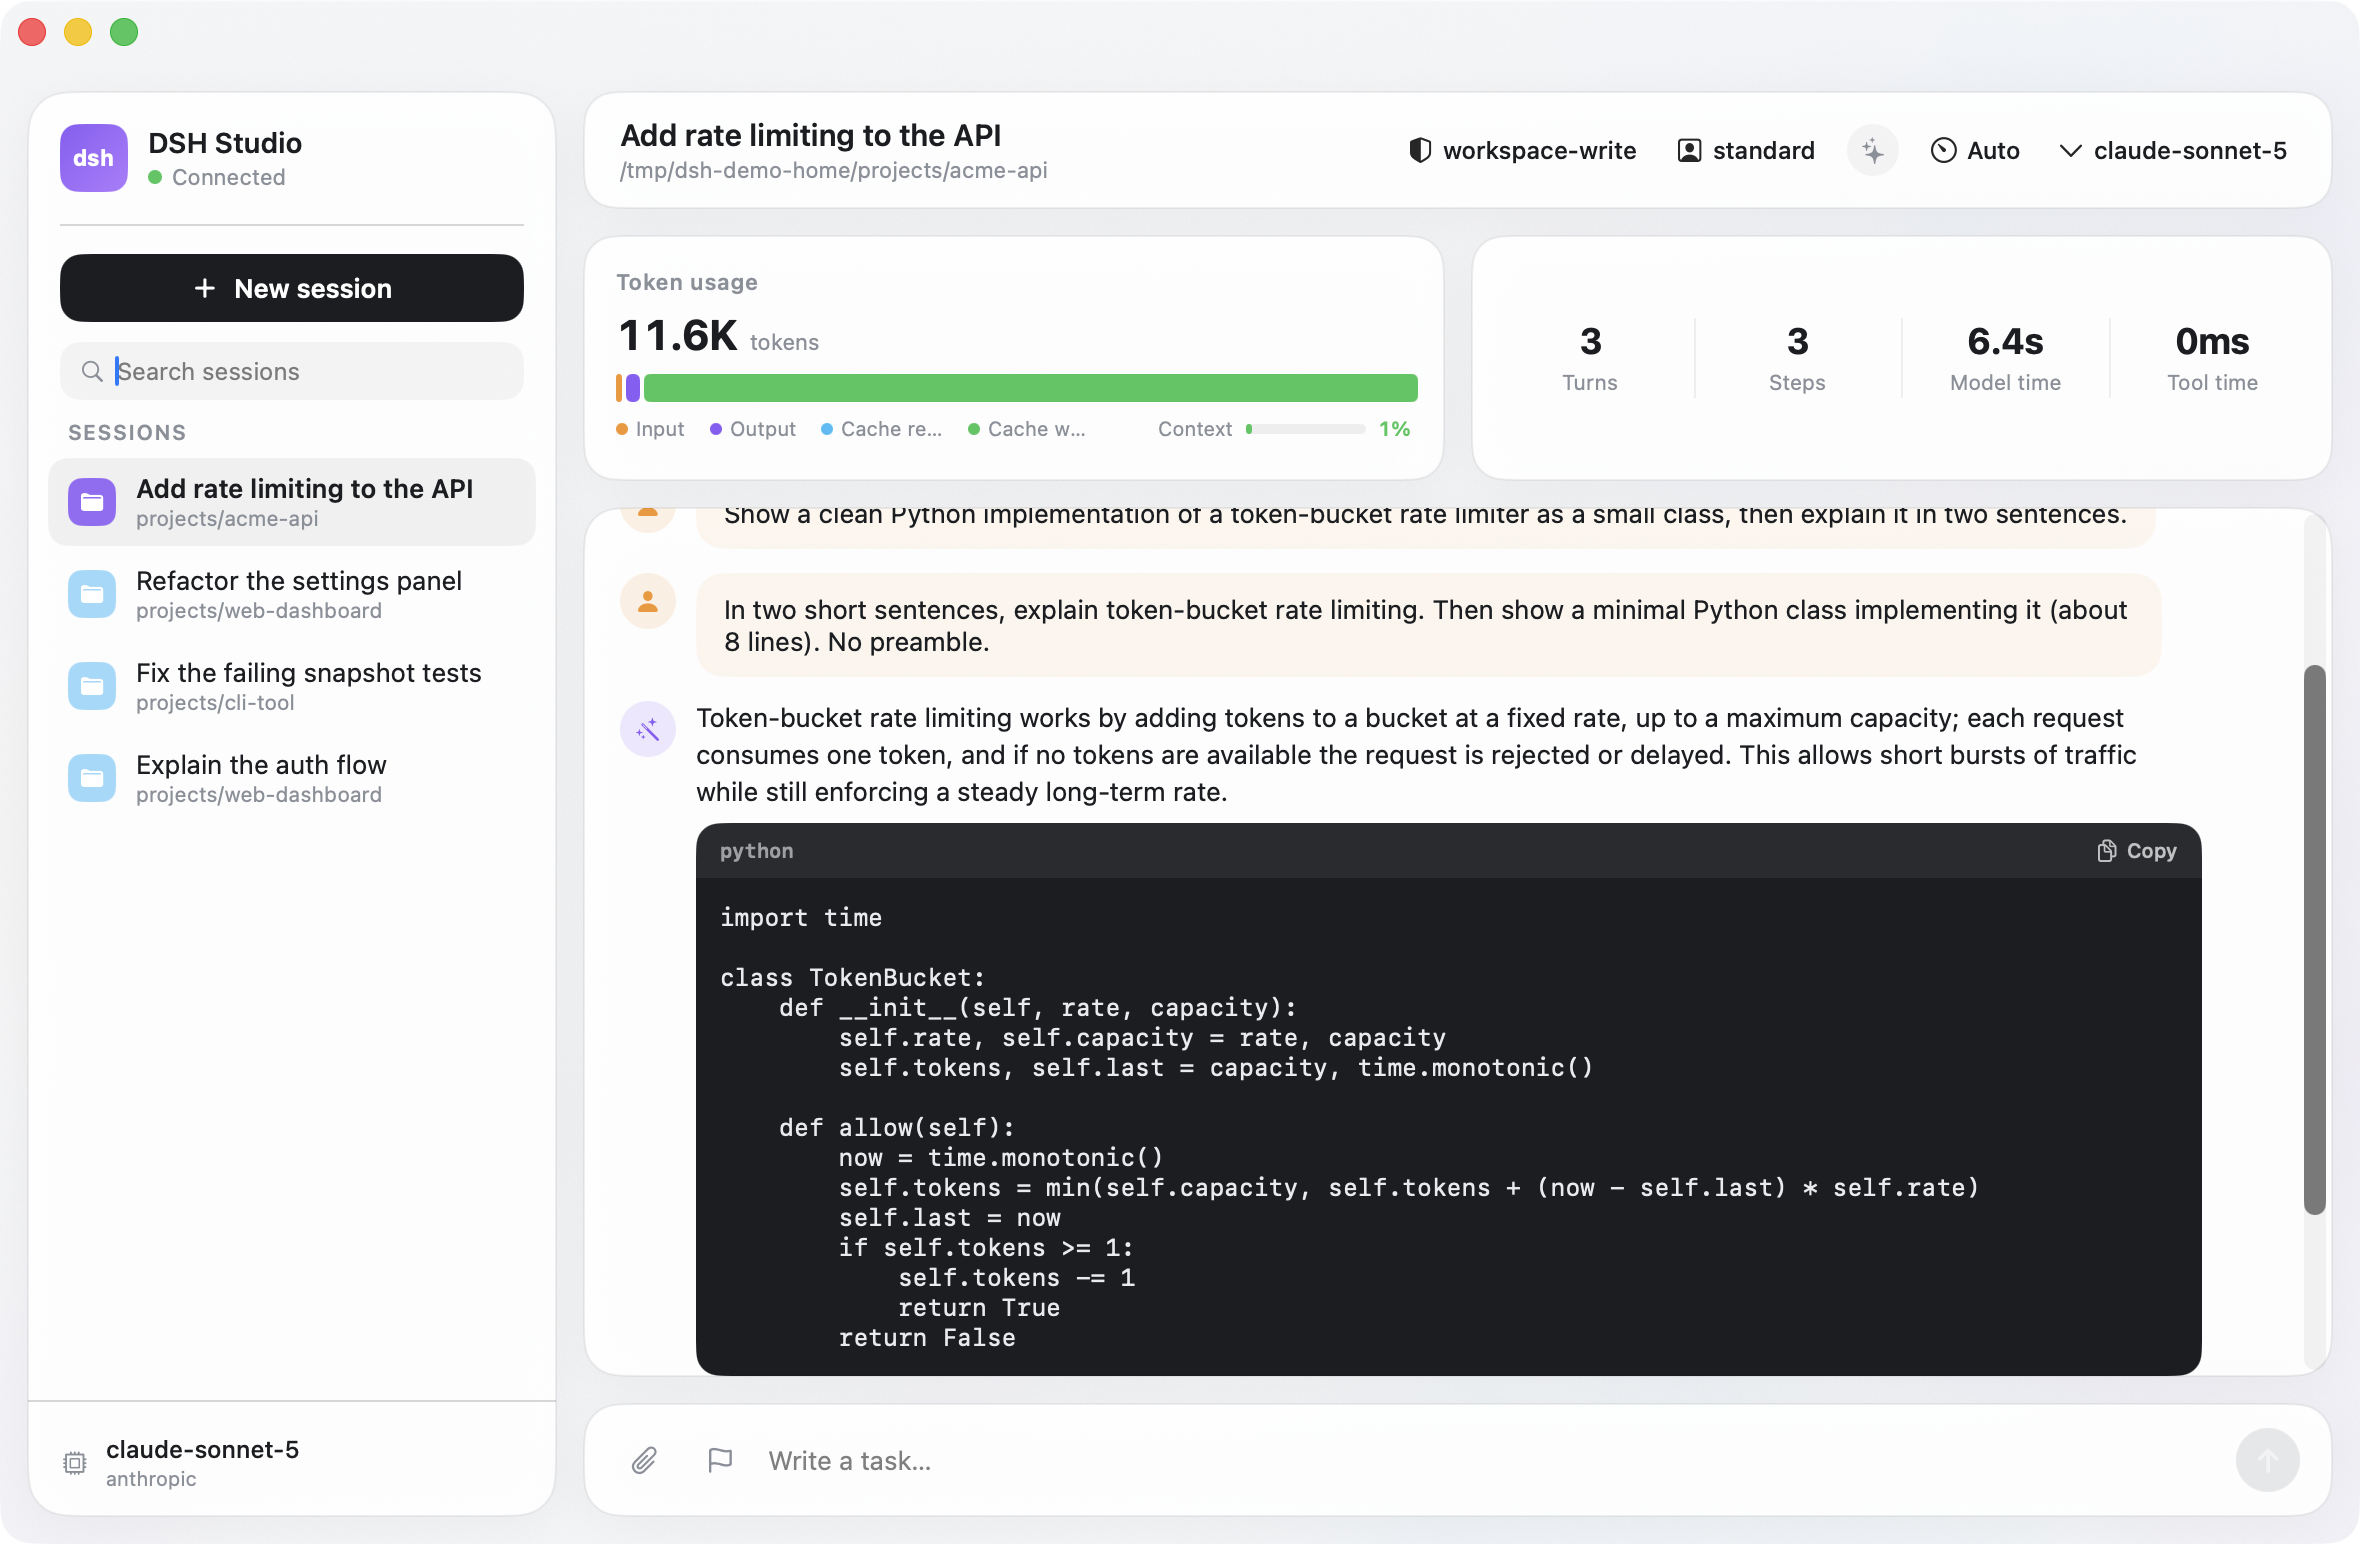
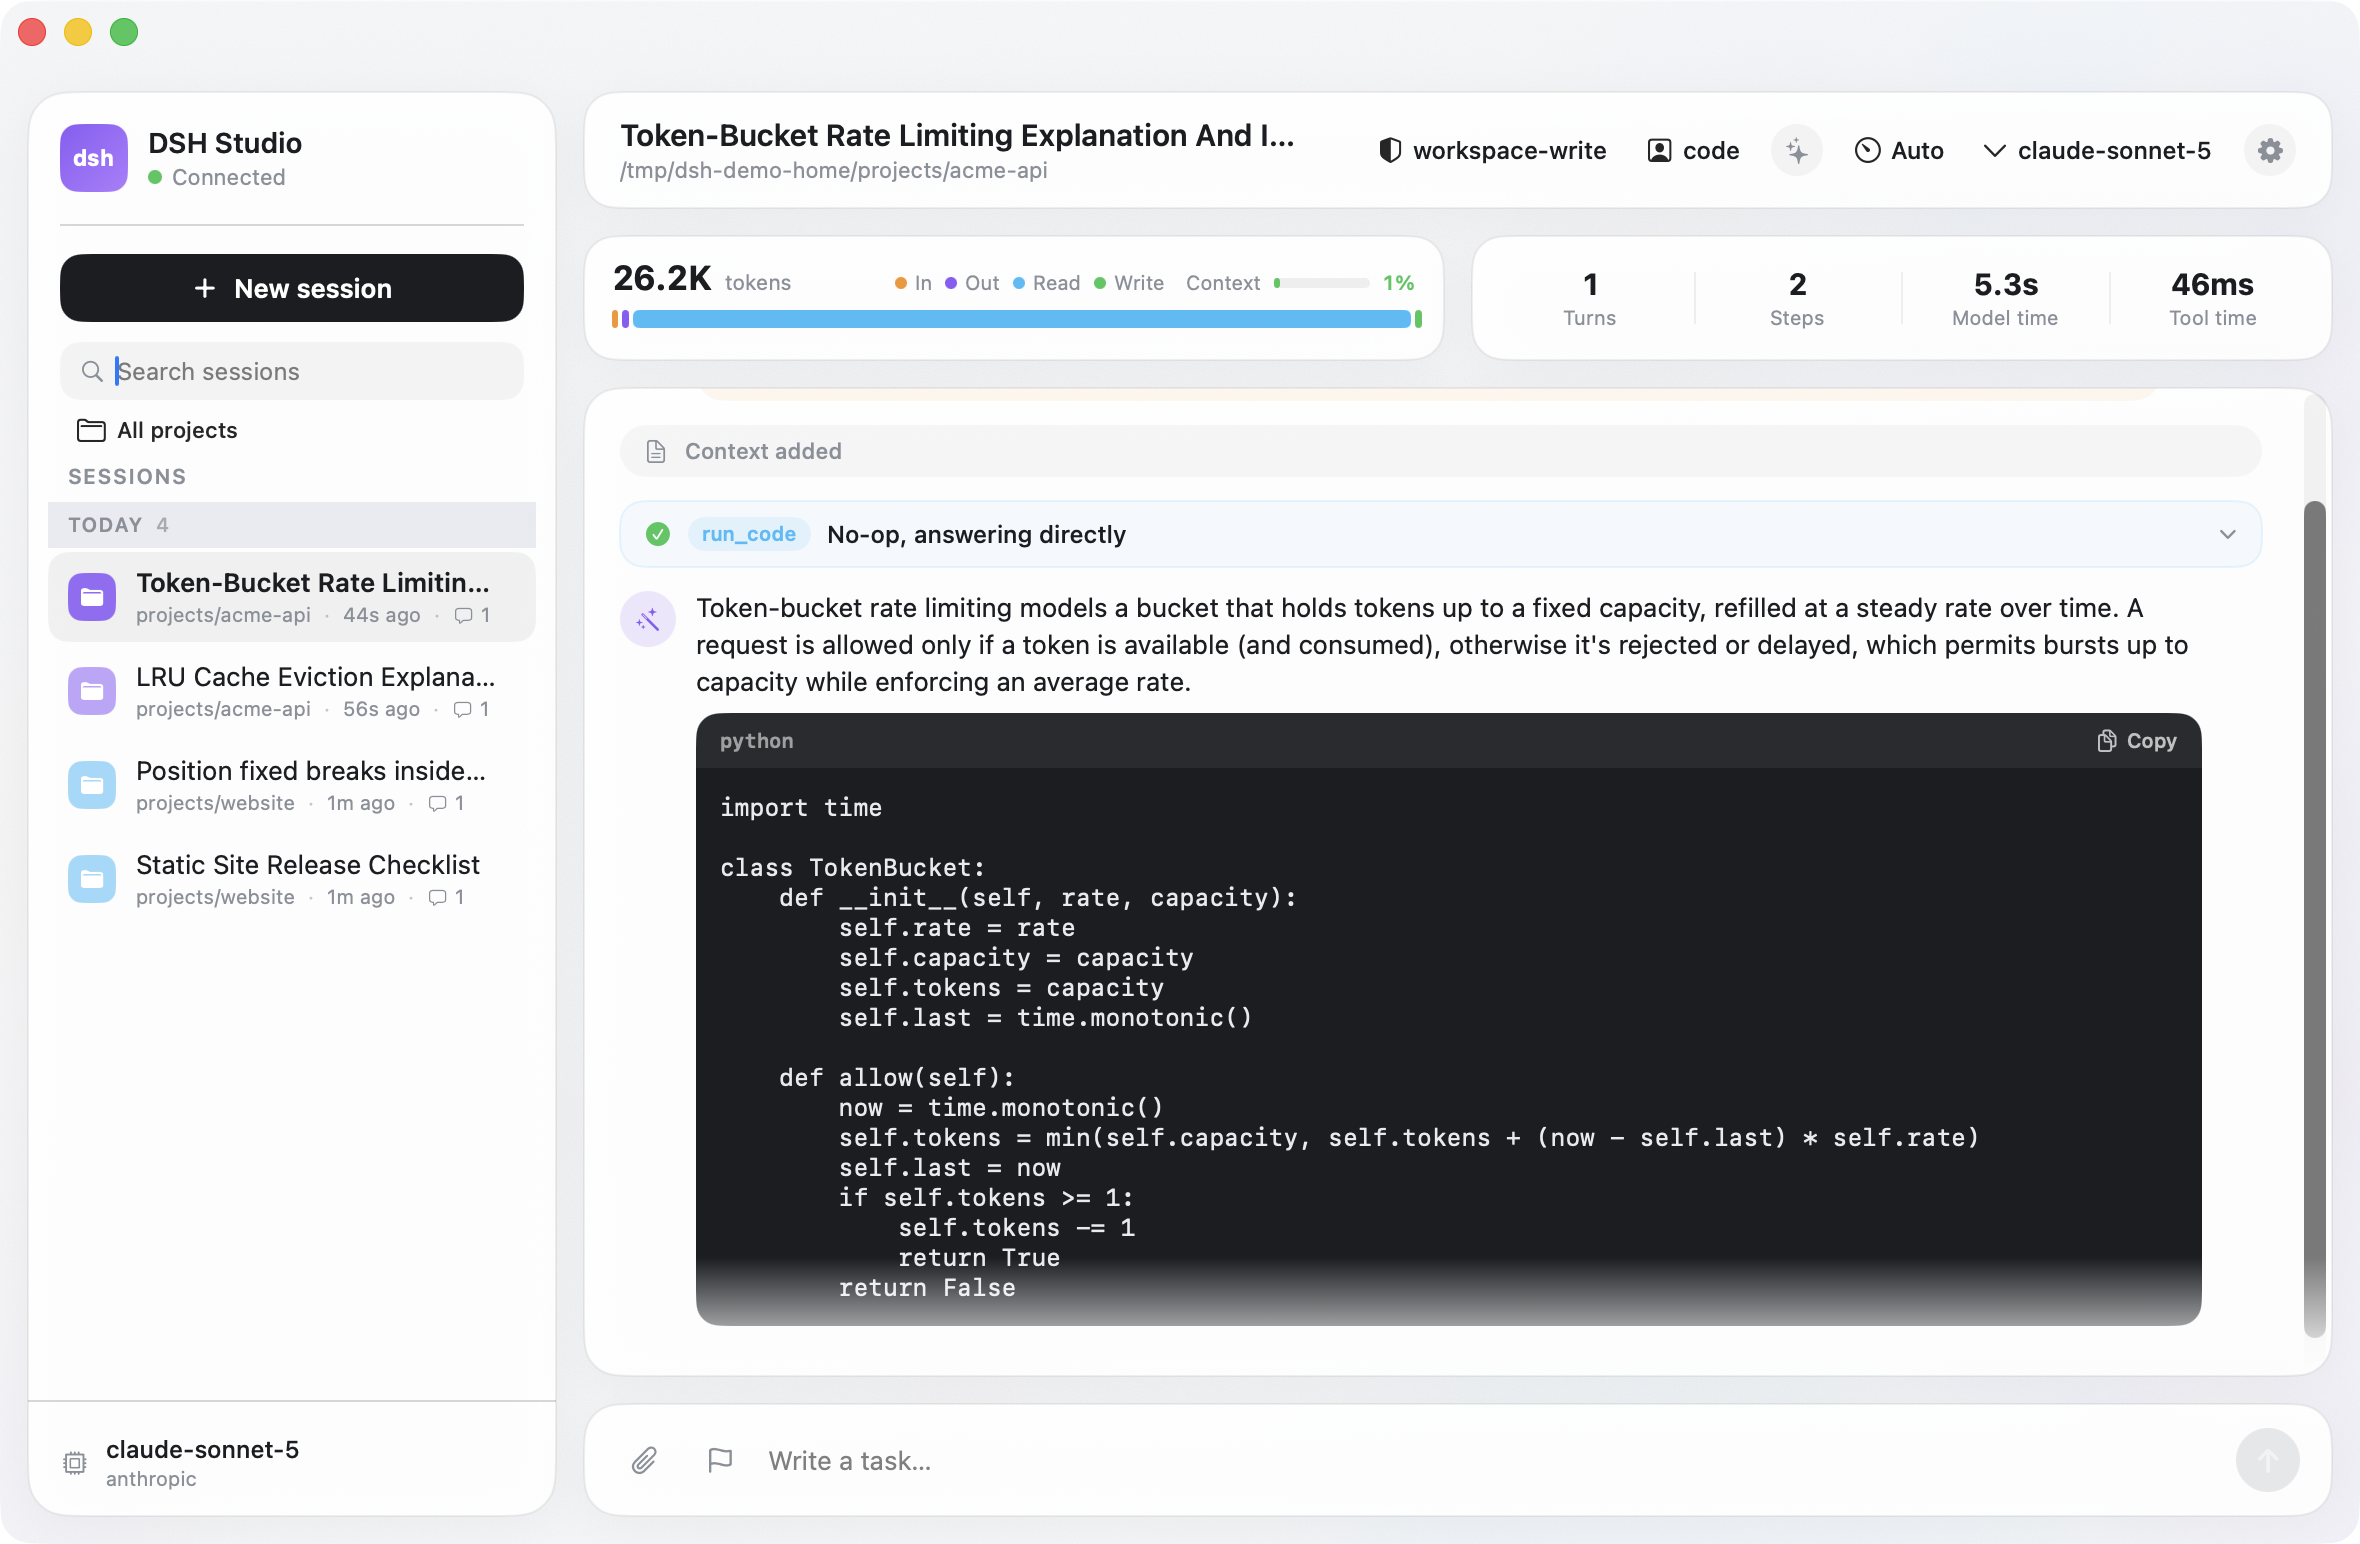
Refresh the README screenshot and tighten the copy
The old screenshot predates the sidebar grouped by date and the compact
stats row.

diff --git a/Sources/UI/SettingsView.swift b/Sources/UI/SettingsView.swift
@@ -69,7 +69,7 @@ struct SettingsView: View {
             }
 
             if row.configured, !row.writable {
-                Text("Provided by your environment, read-only here. Unset it in your shell or ~/.hermes/.env to manage it from this panel.")
+                Text("Provided by your environment and shown here for reference. Unset it in your shell or ~/.hermes/.env to manage it from this panel.")
                     .font(.system(size: 10))
                     .foregroundStyle(Color.inkSecondary)
             } else {
@@ -136,7 +136,7 @@ struct SettingsView: View {
     }
 
     private var footnote: some View {
-        Text("dsh reads each provider's key from the reference named by apiKeyEnv in ~/.dsh/settings.yaml. Adding a brand-new provider still needs its block there; this panel manages the keys those references point to.")
+        Text("dsh reads each provider's key from the reference named by apiKeyEnv in ~/.dsh/settings.yaml. Adding a provider it does not know yet still needs its block there; this panel manages the keys those references point to.")
             .font(.system(size: 10))
             .foregroundStyle(Color.inkSecondary)
     }

diff --git a/Sources/UI/MainView.swift b/Sources/UI/MainView.swift
@@ -573,9 +573,9 @@ struct TopBar: View {
                     app.selectPreset(option)
                 } label: {
                     if option.id == currentId {
-                        Label("\(option.id) — \(option.name)", systemImage: "checkmark")
+                        Label("\(option.id) · \(option.name)", systemImage: "checkmark")
                     } else {
-                        Text("\(option.id) — \(option.name)")
+                        Text("\(option.id) · \(option.name)")
                     }
                 }
             }

diff --git a/Sources/Model/AppModel.swift b/Sources/Model/AppModel.swift
@@ -325,7 +325,7 @@ final class AppModel: ObservableObject {
                 return
             }
         }
-        serverState = .failed("dsh did not come up within 30s — see \(server.logURL.path)")
+        serverState = .failed("dsh did not come up within 30s. See \(server.logURL.path)")
     }
 
     private func probe() async -> Bool {

diff --git a/README.md b/README.md
@@ -1,36 +1,36 @@
 # dsh-studio
 
-A native macOS client for **dsh** — the [`@deepseek-ai/dsh`](https://www.npmjs.com/package/@deepseek-ai/dsh) coding-agent harness. SwiftUI, no Electron, no web view. It talks to a local dsh server over its JSON-RPC surface and a WebSocket event stream, and gives you a real Mac app for driving agent sessions.
+A native macOS client for **dsh**, the [`@deepseek-ai/dsh`](https://www.npmjs.com/package/@deepseek-ai/dsh) coding agent harness. SwiftUI, no Electron, no web view. It talks to a local dsh server over its JSON-RPC surface and a WebSocket event stream, and gives you a real Mac app for driving agent sessions.
 
-> Unofficial and community-built. Not affiliated with or endorsed by DeepSeek. dsh is a separate project with its own license and terms.
+> Unofficial, built by the community. Not affiliated with or endorsed by DeepSeek. dsh is a separate project with its own license and terms.
 
 ![dsh-studio](docs/screenshot.png)
 
-▶ [Watch a 15-second demo](docs/demo.mp4)
+▶ [Watch a 20 second demo](docs/demo.mp4)
 
 ## Why
 
-dsh ships a capable local agent harness, but the day-to-day surface is a terminal. dsh-studio wraps the same server in a native window: a session list, a live trajectory with streaming text and reasoning, tool calls, approvals, and the session controls (model, reasoning effort, permission mode, presets, goals) as first-class UI instead of slash commands.
+dsh ships a capable local agent harness, but everyday use runs through a terminal. dsh-studio wraps the same server in a native window: a session list, a live trajectory with streaming text and reasoning, tool calls, approvals, and the session controls (model, reasoning effort, permission mode, presets, goals) as real interface elements instead of slash commands.
 
 ## Features
 
-- **Sessions** — a date-grouped browser (Today / Yesterday / Last 7 days / Older) sorted by recency, with per-row project, relative time, turn count, and a live dot. Filter by project, search, create (pick a working directory), rename, fork. Every session already on disk shows up, including ones started from the dsh CLI long before this app.
-- **History recovery** — dsh refuses to serve a session log whose sequence numbers or frame boundaries fail its integrity check. When that happens the app reads the log itself, skips the records it cannot parse, and shows the transcript instead of an error.
-- **Live trajectory** — streaming assistant text and reasoning, collapsible thinking, tool calls with arguments, and rendered markdown with copy-able fenced code blocks.
-- **Model & reasoning** — switch model/provider and reasoning effort per session.
-- **Approvals & questions** — respond to tool-approval prompts (with the actual arguments shown) and structured questions inline.
-- **Session controls** — permission mode, agent presets, and available skills from the top bar.
-- **Settings** — a gear-button panel to enter each provider's API key or token and set the default model, written through dsh's own credential store (`~/.dsh/.credentials.yaml`) so a fresh install needs no shell setup.
-- **Goals, jobs, subagents** — set and drive a session goal, watch background jobs, inspect and interrupt subagents.
-- **Images** — attach images to a prompt; view image attachments from history.
-- **Context & tokens** — token usage breakdown and a context-pressure meter.
-- **Metal background** — a lightweight domain-warped gradient that responds to mouse and agent activity, paused when the window is occluded.
+- **Sessions.** A browser grouped by date (Today / Yesterday / Last 7 days / Older) sorted by recency, showing the project, relative time, turn count and a live dot on every row. Filter by project, search, create (pick a working directory), rename, fork. Every session already on disk shows up, including ones started from the dsh CLI long before this app.
+- **History recovery.** The dsh server refuses to serve a session log whose sequence numbers or frame boundaries fail its integrity check. When that happens the app reads the log itself, skips the records it cannot parse, and shows the transcript instead of an error.
+- **Live trajectory.** Streaming assistant text and reasoning, collapsible thinking, tool calls with arguments, and rendered markdown with fenced code blocks you can copy.
+- **Model & reasoning.** Switch model, provider and reasoning effort per session.
+- **Approvals & questions.** Respond to tool approval prompts (with the actual arguments shown) and structured questions inline.
+- **Session controls.** Permission mode, agent presets, and available skills from the top bar.
+- **Settings.** The gear button opens a panel where you enter each provider's API key or token and set the default model, written through dsh's own credential store (`~/.dsh/.credentials.yaml`) so a fresh install needs no shell setup.
+- **Goals, jobs, subagents.** Set and drive a session goal, watch background jobs, inspect and interrupt subagents.
+- **Images.** Attach images to a prompt; view image attachments from history.
+- **Context & tokens.** Token usage breakdown and a meter for context pressure.
+- **Metal background.** A light animated gradient that responds to mouse and agent activity, paused when the window is occluded.
 
 ## Requirements
 
 - macOS 14 or later
 - [dsh](https://www.npmjs.com/package/@deepseek-ai/dsh) installed (`npm i -g @deepseek-ai/dsh`), reachable at `~/.npm-global/bin/dsh`
-- Provider credentials for the models you use. Enter them in the app's Settings panel (the gear button), which stores each key in dsh's credential store and applies it on the next request. dsh also reads keys from the env var named by `apiKeyEnv` in `~/.dsh/settings.yaml`; when the app launches its own server it forwards your login-shell environment plus every key in `~/.hermes/.env`, so an existing shell setup keeps working for any provider, not just Anthropic. A key supplied by the environment shows as read-only in the panel, since dsh treats the launching environment as authoritative.
+- Provider credentials for the models you use. Enter them in the app's Settings panel (the gear button), which stores each key in dsh's credential store and applies it on the next request. dsh also reads keys from the env var named by `apiKeyEnv` in `~/.dsh/settings.yaml`; when the app launches its own server it forwards the environment of your login shell plus every key in `~/.hermes/.env`, so an existing shell setup keeps working for any provider, not just Anthropic. A key supplied by the environment is shown but cannot be edited in the panel, since dsh treats the launching environment as authoritative.
 - Xcode and [XcodeGen](https://github.com/yonaskolb/XcodeGen) (`brew install xcodegen`)
 
 ## Build & run
@@ -45,15 +45,15 @@ xcodebuild -scheme DshStudio -configuration Debug build
 
 ## How it connects
 
-On launch the app probes `http://127.0.0.1:3080`. If a dsh server is already answering there it attaches to it; otherwise it launches its own `dsh web --port <port>` (forwarding your login-shell environment and `~/.hermes/.env` so every configured provider is available) and shuts that child down on quit. Override the port with the `DSH_STUDIO_PORT` environment variable. Requests go to `POST /api/<method>`; events arrive on `ws://127.0.0.1:<port>/api/events.mux`.
+On launch the app probes `http://127.0.0.1:3080`. If a dsh server is already answering there it attaches to it; otherwise it launches its own `dsh web --port <port>` (forwarding the environment of your login shell and `~/.hermes/.env` so every configured provider is available) and shuts that child down on quit. Override the port with the `DSH_STUDIO_PORT` environment variable. Requests go to `POST /api/<method>`; events arrive on `ws://127.0.0.1:<port>/api/events.mux`.
 
 ## Notes and limitations
 
-- dsh is pre-release; its RPC surface can change between versions, and this client tracks a specific snapshot of it.
-- Credentials are taken from your login-shell environment and `~/.hermes/.env`. If you keep keys elsewhere, export them in your shell profile or add them to `~/.hermes/.env`.
+- dsh is prerelease; its RPC surface can change between versions, and this client tracks a specific snapshot of it.
+- Credentials are taken from the environment of your login shell and `~/.hermes/.env`. If you keep keys elsewhere, export them in your shell profile or add them to `~/.hermes/.env`.
 - The local dsh API is unauthenticated by design (loopback only); treat it like any other local dev server.
-- Single-user, local-first. No telemetry, no accounts.
+- One person, one machine, nothing leaves it. No telemetry, no accounts.
 
 ## License
 
-MIT — see [LICENSE](LICENSE).
+MIT. See [LICENSE](LICENSE).
